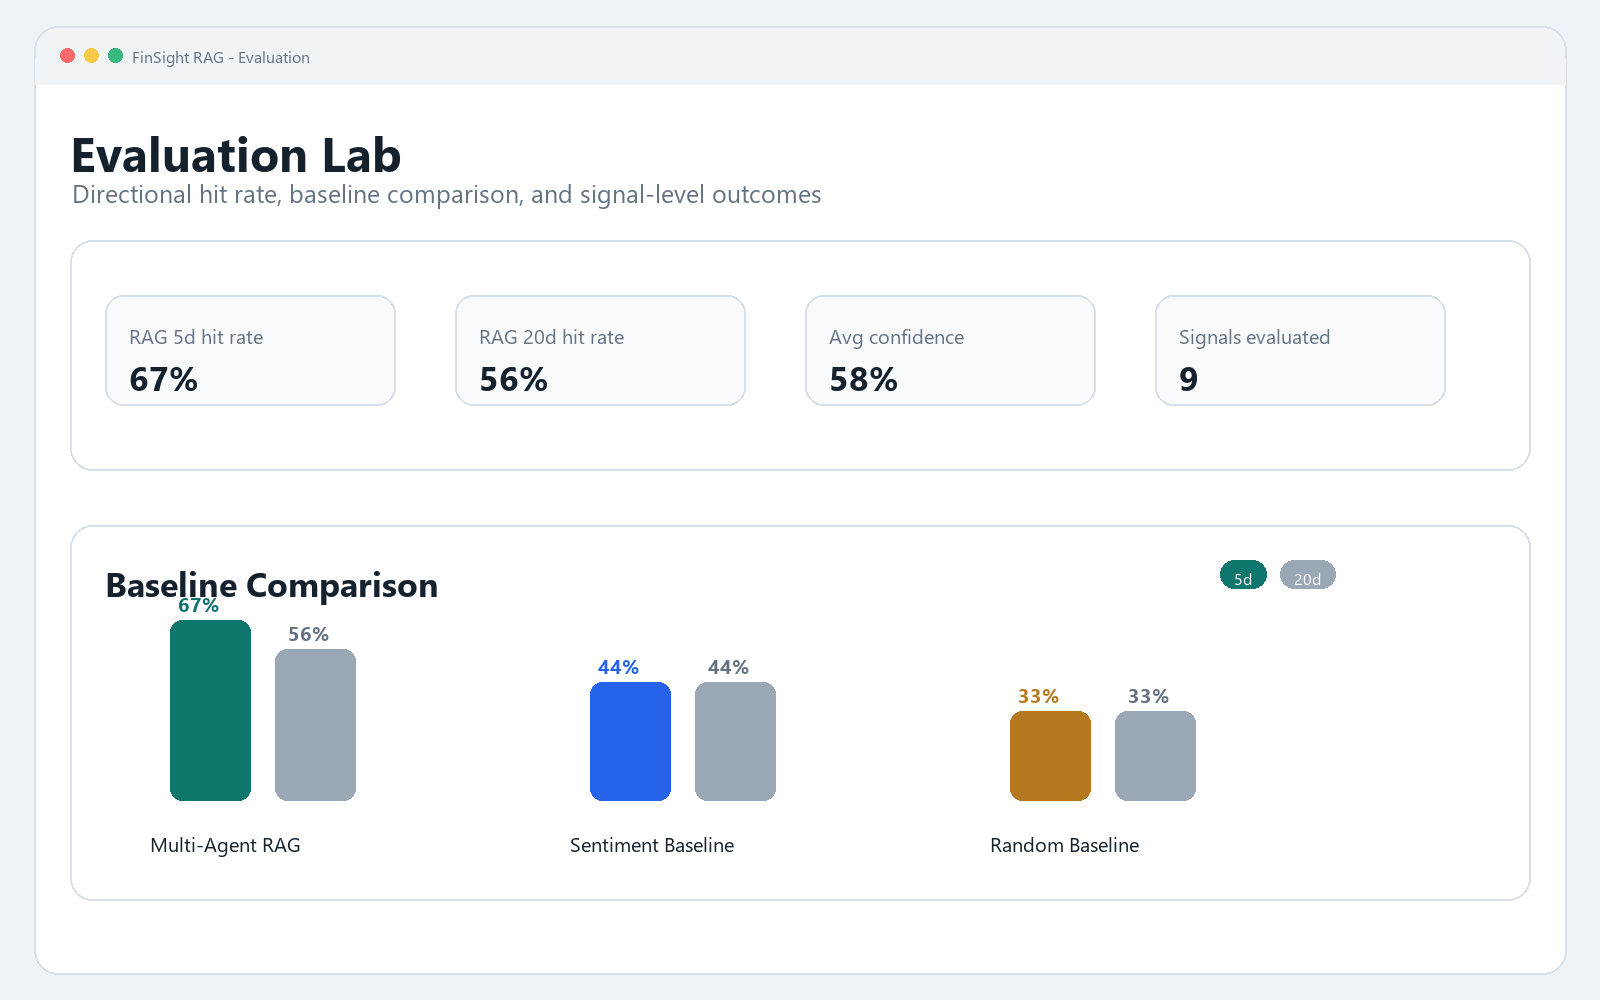
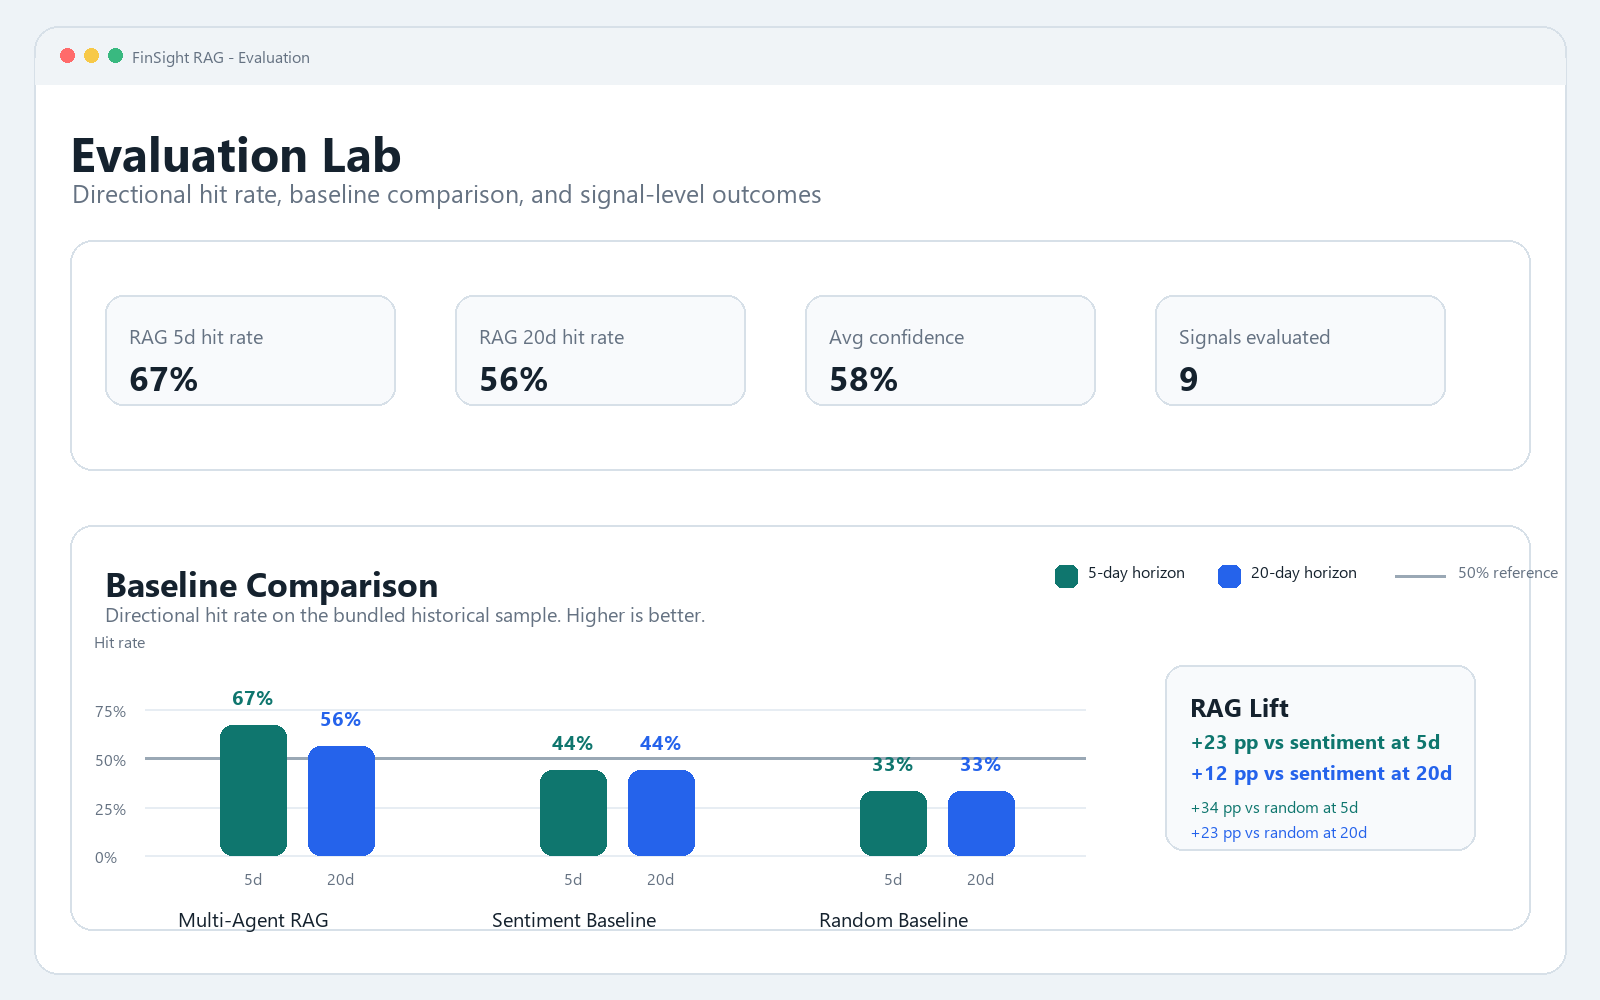
Clarify evaluation baseline visualization

diff --git a/docs/screenshots/generate_visual_assets.py b/docs/screenshots/generate_visual_assets.py
@@ -360,19 +360,48 @@ def evaluation_lab():
         text(d, (x + 24, 322), label, fill=MUTED, fnt=F["sm"])
         text(d, (x + 24, 354), value, fnt=F["bold_lg"])
 
-    rounded(d, (70, 525, 1530, 900), radius=22, fill=PANEL)
+    rounded(d, (70, 525, 1530, 930), radius=22, fill=PANEL)
     text(d, (105, 560), "Baseline Comparison", fnt=F["bold_lg"])
-    groups = [("Multi-Agent RAG", 0.67, 0.56, TEAL), ("Sentiment Baseline", 0.44, 0.44, BLUE), ("Random Baseline", 0.33, 0.33, AMBER)]
-    x0, y0 = 170, 800
-    for idx, (label, v5, v20, col) in enumerate(groups):
-        x = x0 + idx * 420
-        d.rounded_rectangle((x, y0 - int(v5 * 270), x + 80, y0), radius=12, fill=col)
-        d.rounded_rectangle((x + 105, y0 - int(v20 * 270), x + 185, y0), radius=12, fill="#9aa8b5")
-        text(d, (x - 20, 830), label, fnt=F["sm"])
-        text(d, (x + 8, y0 - int(v5 * 270) - 30), f"{v5:.0%}", fill=col, fnt=F["bold_sm"])
-        text(d, (x + 118, y0 - int(v20 * 270) - 30), f"{v20:.0%}", fill=MUTED, fnt=F["bold_sm"])
-    pill(d, (1220, 560), "5d", TEAL)
-    pill(d, (1280, 560), "20d", "#9aa8b5")
+    text(d, (105, 600), "Directional hit rate on the bundled historical sample. Higher is better.", fill=MUTED, fnt=F["sm"])
+
+    legend_y = 558
+    d.rounded_rectangle((1055, legend_y + 7, 1077, legend_y + 29), radius=6, fill=TEAL)
+    text(d, (1088, legend_y + 2), "5-day horizon", fill=INK, fnt=F["xs"])
+    d.rounded_rectangle((1218, legend_y + 7, 1240, legend_y + 29), radius=6, fill=BLUE)
+    text(d, (1251, legend_y + 2), "20-day horizon", fill=INK, fnt=F["xs"])
+    d.line((1395, legend_y + 18, 1445, legend_y + 18), fill="#9aa8b5", width=3)
+    text(d, (1458, legend_y + 2), "50% reference", fill=MUTED, fnt=F["xs"])
+
+    chart_left, chart_top, chart_bottom, chart_right = 145, 660, 855, 1085
+    chart_h = chart_bottom - chart_top
+    for tick in (0.0, 0.25, 0.50, 0.75):
+        y = chart_bottom - int(tick * chart_h)
+        d.line((chart_left, y, chart_right, y), fill="#e7edf3", width=2)
+        text(d, (95, y - 10), f"{tick:.0%}", fill=MUTED, fnt=F["xs"])
+    d.line((chart_left, chart_bottom - int(0.50 * chart_h), chart_right, chart_bottom - int(0.50 * chart_h)), fill="#9aa8b5", width=3)
+    text(d, (94, chart_top - 30), "Hit rate", fill=MUTED, fnt=F["xs"])
+
+    groups = [
+        ("Multi-Agent RAG", 0.67, 0.56),
+        ("Sentiment Baseline", 0.44, 0.44),
+        ("Random Baseline", 0.33, 0.33),
+    ]
+    x0 = 220
+    for idx, (label, v5, v20) in enumerate(groups):
+        x = x0 + idx * 320
+        for offset, value, col, horizon in ((0, v5, TEAL, "5d"), (88, v20, BLUE, "20d")):
+            bar_h = int(value * chart_h)
+            d.rounded_rectangle((x + offset, chart_bottom - bar_h, x + offset + 66, chart_bottom), radius=12, fill=col)
+            text(d, (x + offset + 33, chart_bottom - bar_h - 28), f"{value:.0%}", fill=col, fnt=F["bold_sm"], anchor="mm")
+            text(d, (x + offset + 33, chart_bottom + 12), horizon, fill=MUTED, fnt=F["xs"], anchor="ma")
+        text(d, (x + 34, chart_bottom + 50), label, fnt=F["sm"], anchor="ma")
+
+    rounded(d, (1165, 665, 1475, 850), radius=18, fill="#f8fafc")
+    text(d, (1190, 690), "RAG Lift", fnt=F["bold_md"])
+    text(d, (1190, 727), "+23 pp vs sentiment at 5d", fill=TEAL, fnt=F["bold_sm"])
+    text(d, (1190, 758), "+12 pp vs sentiment at 20d", fill=BLUE, fnt=F["bold_sm"])
+    text(d, (1190, 795), "+34 pp vs random at 5d", fill=TEAL, fnt=F["xs"])
+    text(d, (1190, 820), "+23 pp vs random at 20d", fill=BLUE, fnt=F["xs"])
     img.save(OUT / "evaluation-lab.png", quality=94)
 
 

diff --git a/FinSight_RAG/app.py b/FinSight_RAG/app.py
@@ -2391,17 +2391,65 @@ with tab_evaluation:
     mc[2].metric("Avg confidence", pct(_avg_confidence, 0))
     mc[3].metric("Signals evaluated", _n)
 
+    _chart_for_plot = _chart_metrics.copy()
+    _chart_for_plot["hit_label"] = _chart_for_plot["hit_rate"].map(lambda x: pct(x, 0))
+    _chart_for_plot["horizon_label"] = _chart_for_plot["horizon"].map({"5d": "5-day horizon", "20d": "20-day horizon"}).fillna(_chart_for_plot["horizon"])
+
+    _rag_5 = float(_metric_value("Multi-Agent RAG", "5d", "hit_rate"))
+    _rag_20 = float(_metric_value("Multi-Agent RAG", "20d", "hit_rate"))
+    _sent_5 = float(_metric_value("Sentiment Baseline", "5d", "hit_rate"))
+    _sent_20 = float(_metric_value("Sentiment Baseline", "20d", "hit_rate"))
+    _rand_5 = float(_metric_value("Random Baseline", "5d", "hit_rate"))
+    _rand_20 = float(_metric_value("Random Baseline", "20d", "hit_rate"))
+    def _pp(value: float) -> str:
+        return f"{value * 100:+.0f} pp"
+
+    _has_baselines = {"Sentiment Baseline", "Random Baseline"}.issubset(set(_chart_metrics["method"]))
+    if _has_baselines:
+        _lift_text = (
+            f"RAG lift: {_pp(_rag_5 - _sent_5)} vs sentiment at 5d, "
+            f"{_pp(_rag_20 - _sent_20)} at 20d; "
+            f"{_pp(_rag_5 - _rand_5)} vs random at 5d, "
+            f"{_pp(_rag_20 - _rand_20)} at 20d."
+        )
+    else:
+        _lift_text = "Live evaluation currently has realized RAG outcomes only; baseline lift appears when historical comparison rows are available."
+    st.markdown(f"<div class='analysis-box'>{_safe_text(_lift_text)} Higher bars mean better directional hit rate on the displayed evaluation source.</div>", unsafe_allow_html=True)
+
     fig_eval = px.bar(
-        _chart_metrics,
+        _chart_for_plot,
         x="method",
         y="hit_rate",
-        color="horizon",
+        color="horizon_label",
+        text="hit_label",
         barmode="group",
-        range_y=[0, 1],
-        color_discrete_sequence=["#126c83", "#7a5c00"],
-        labels={"method": "", "hit_rate": "Directional hit rate"},
+        range_y=[0, min(1.0, max(0.72, float(_chart_for_plot["hit_rate"].max()) + 0.18))],
+        category_orders={
+            "method": ["Multi-Agent RAG", "Sentiment Baseline", "Random Baseline"],
+            "horizon_label": ["5-day horizon", "20-day horizon"],
+        },
+        color_discrete_map={"5-day horizon": "#0f766e", "20-day horizon": "#2563eb"},
+        labels={"method": "", "hit_rate": "Directional hit rate", "horizon_label": "Horizon"},
+        hover_data={"hit_label": False, "signals": True, "avg_signed_return": ":.2%", "signal_coverage": ":.0%"},
     )
-    fig_eval.update_layout(height=310, margin=dict(l=8, r=8, t=20, b=8), legend_title_text="")
+    fig_eval.update_traces(textposition="outside", cliponaxis=False)
+    fig_eval.add_hline(
+        y=0.5,
+        line_dash="dot",
+        line_color="#9aa8b5",
+        annotation_text="50% reference",
+        annotation_position="top left",
+    )
+    fig_eval.update_layout(
+        height=380,
+        margin=dict(l=10, r=10, t=34, b=8),
+        legend=dict(title="Horizon", orientation="h", yanchor="bottom", y=1.04, xanchor="right", x=1),
+        yaxis_tickformat=".0%",
+        yaxis_gridcolor="#e7edf3",
+        plot_bgcolor="#ffffff",
+        bargap=0.28,
+        bargroupgap=0.12,
+    )
     st.plotly_chart(fig_eval, use_container_width=True)
 
     _metrics_df = _chart_metrics.copy()
